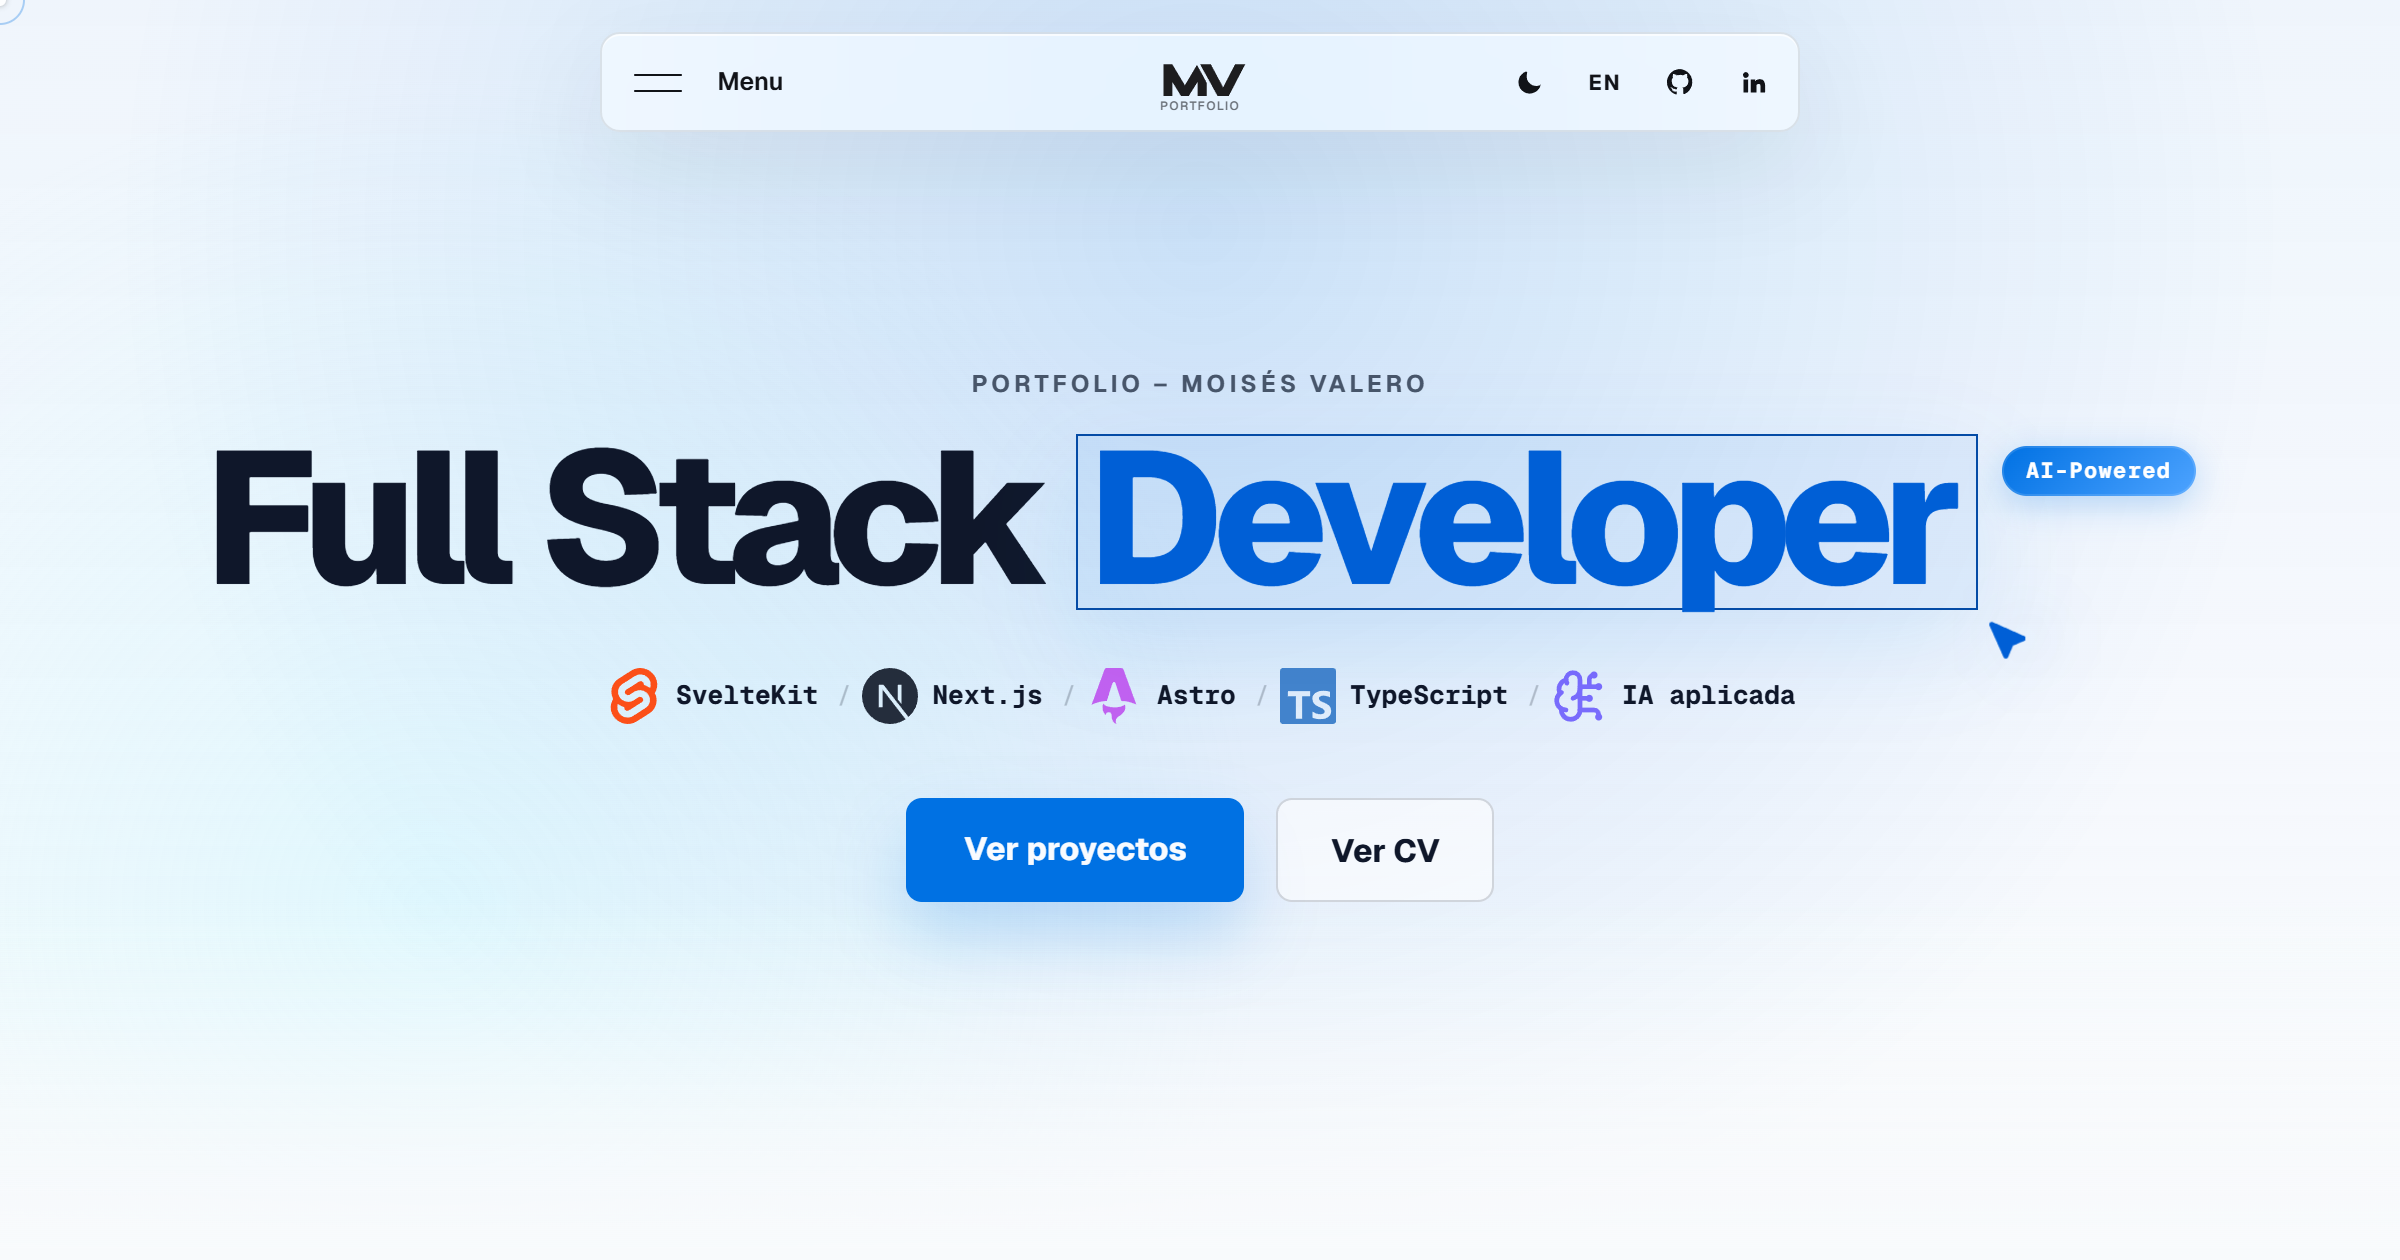
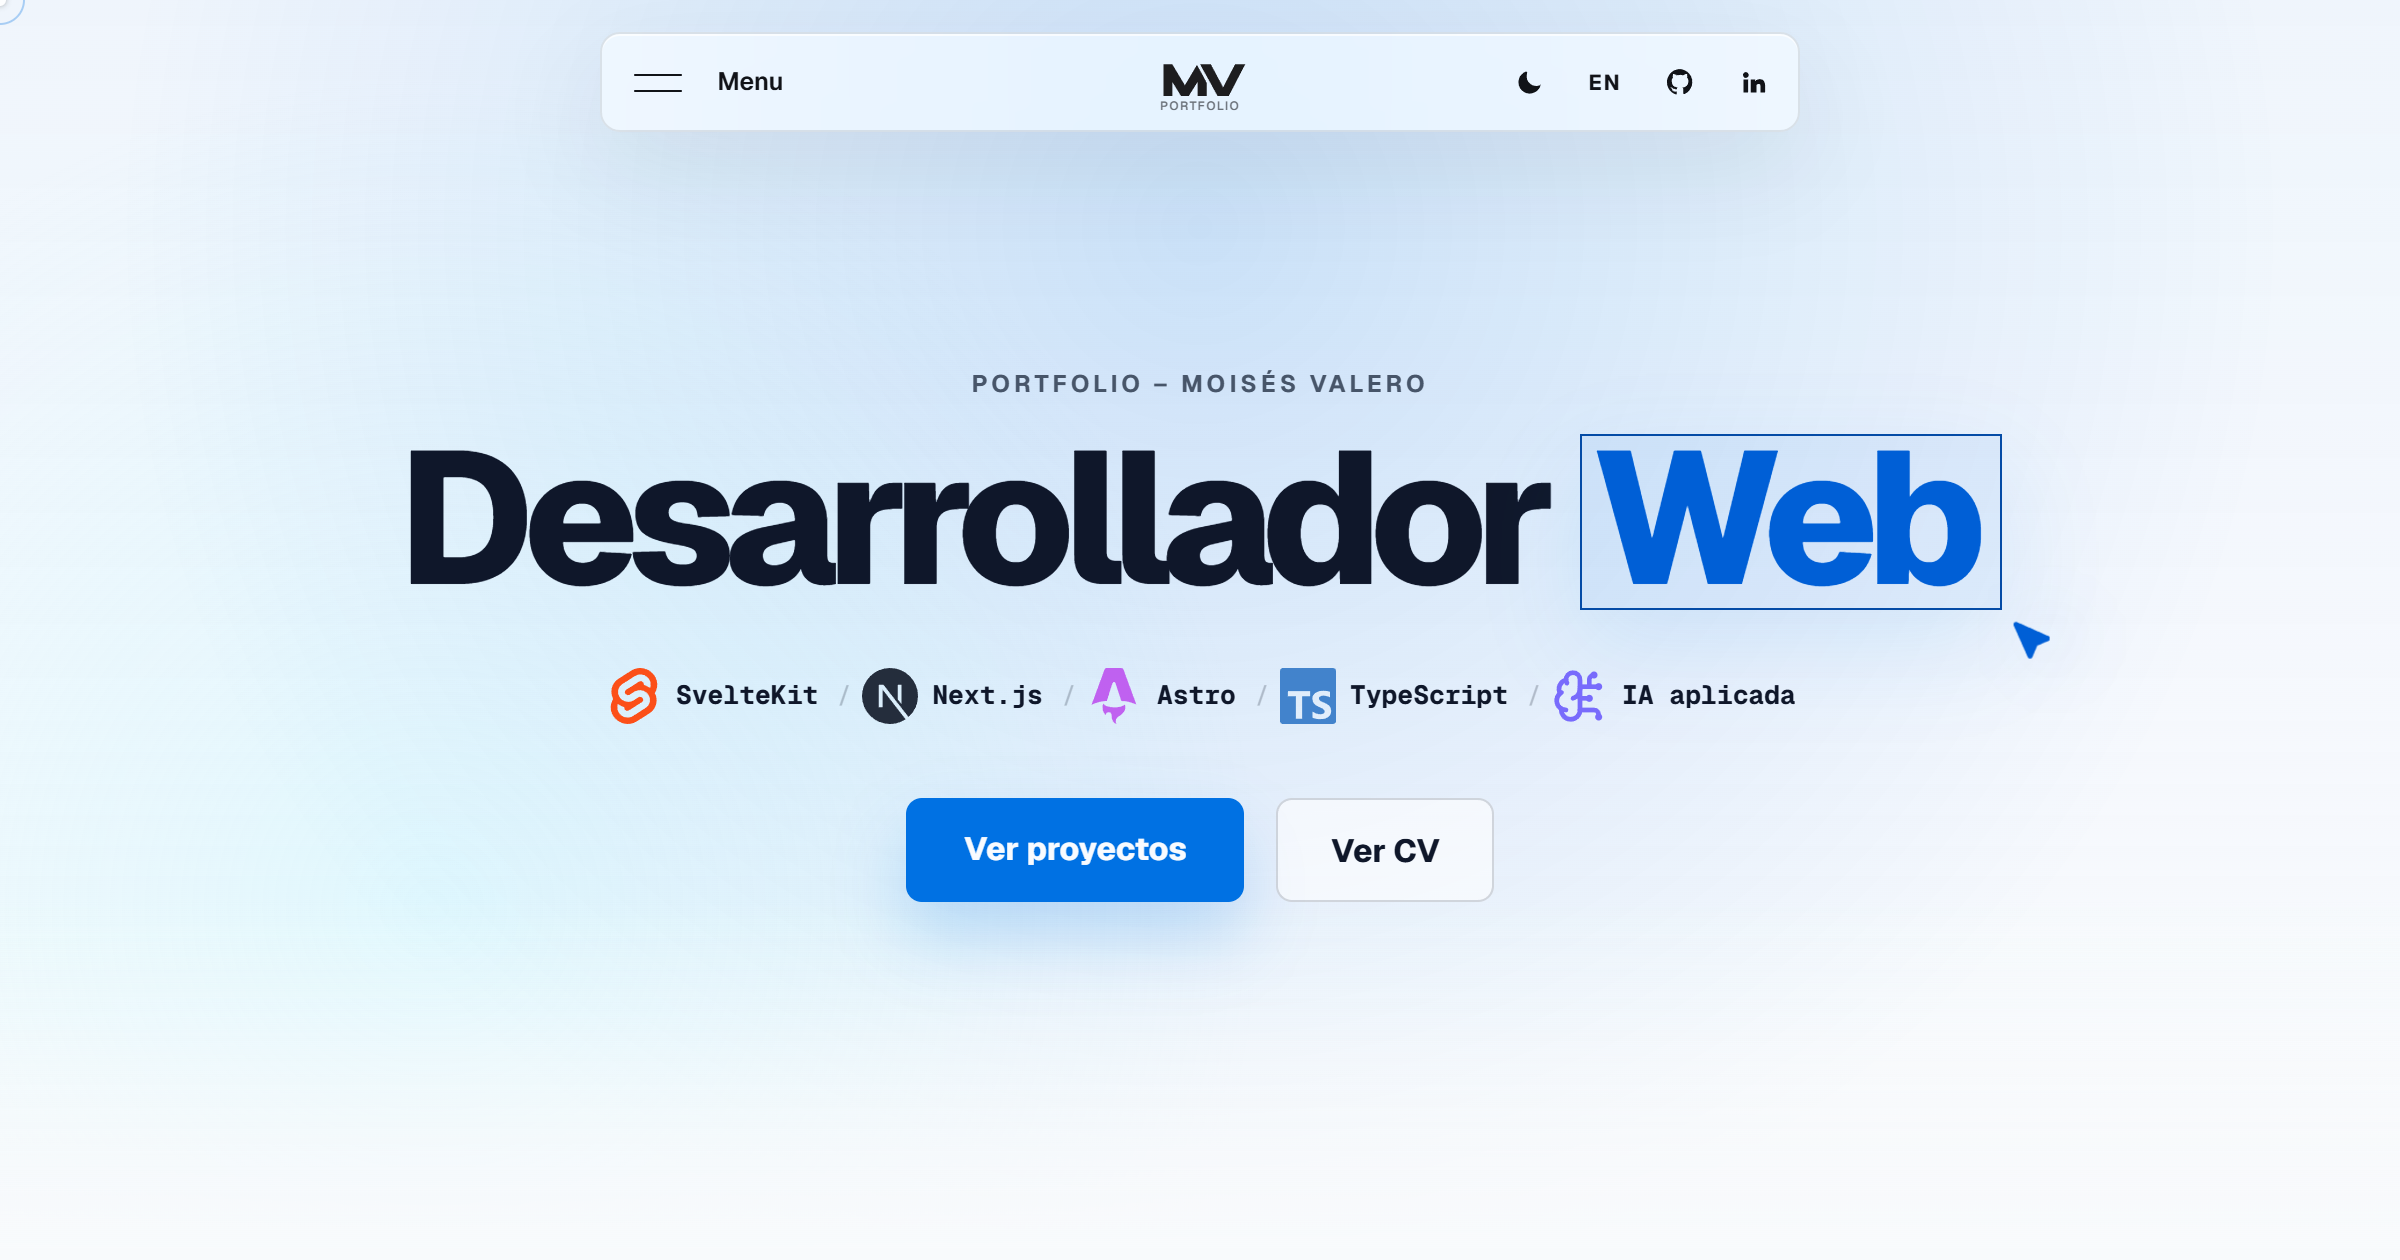
feat(seo): audit SEO/GEO/AEO texts and update og:image

Changed region(s): [[0.0625, 0.3405, 0.9375, 0.4952], [0.8125, 0.4952, 0.875, 0.5262]]

diff --git a/src/lib/server/sanity/map-site-portfolio.ts b/src/lib/server/sanity/map-site-portfolio.ts
@@ -74,6 +74,13 @@ function replaceCmsText(value: string, replacements: Record<string, string>): st
 	return replacements[normalized] ?? value;
 }
 
+function sanitizeFullstack(text: string): string {
+	if (!text) return text;
+	return text
+		.replace(/\bfull[- ]?stack\b/gi, 'Desarrollador Web')
+		.replace(/\bfullstack\b/gi, 'Desarrollador Web');
+}
+
 function normalizeHeroProjectCtaLabel(value: string, locale: SiteLocale): string {
 	if (locale === 'en') {
 		return replaceCmsText(value, {
@@ -244,10 +251,10 @@ function mergeSeo(
 	}
 	const ogImageRaw = resolveOgImagePath(asStringOpt(o.ogImage), d.ogImage);
 	return {
-		title: asString(o.title, d.title),
-		description: asString(o.description, d.description),
-		ogTitle: asString(o.ogTitle, d.ogTitle),
-		ogDescription: asString(o.ogDescription, d.ogDescription),
+		title: sanitizeFullstack(asString(o.title, d.title)),
+		description: sanitizeFullstack(asString(o.description, d.description)),
+		ogTitle: sanitizeFullstack(asString(o.ogTitle, d.ogTitle)),
+		ogDescription: sanitizeFullstack(asString(o.ogDescription, d.ogDescription)),
 		ogImage: absolutizeOgImage(ogImageRaw, baseUrl),
 		twitterCard: o.twitterCard === 'summary' ? 'summary' : 'summary_large_image'
 	};
